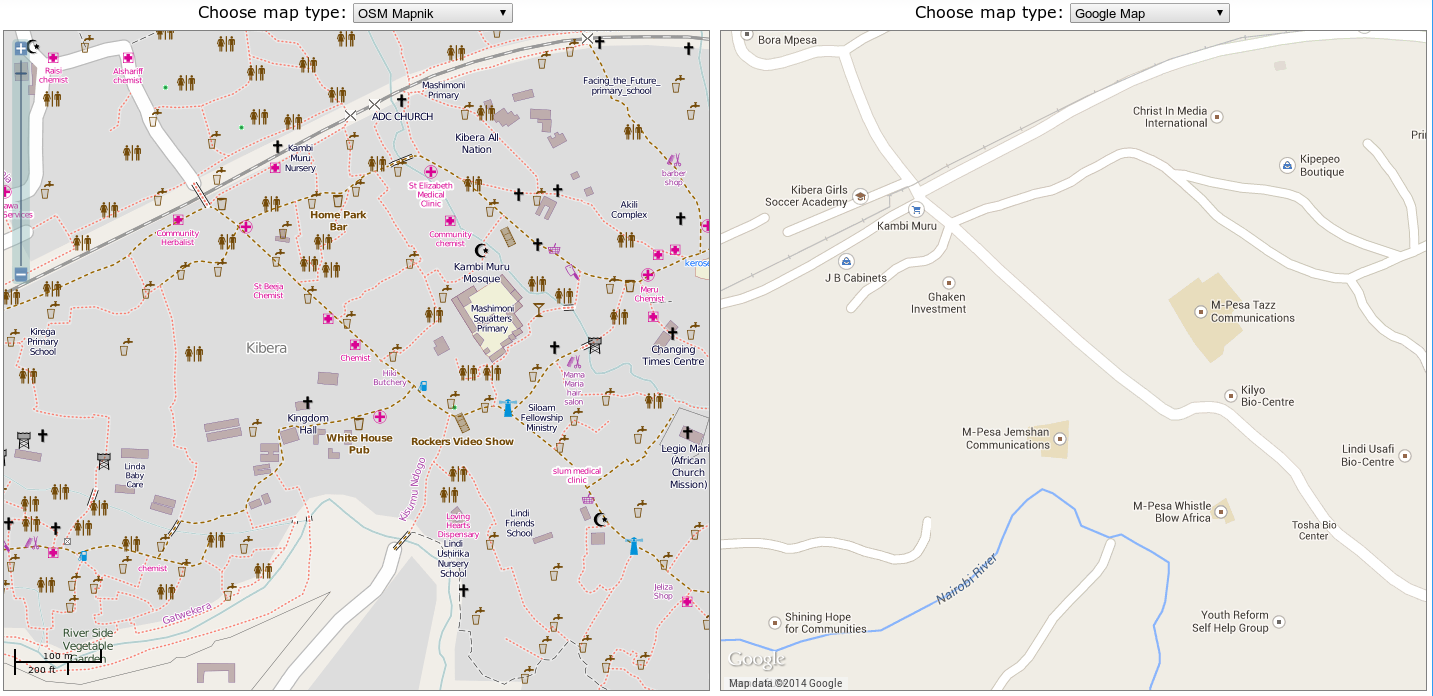
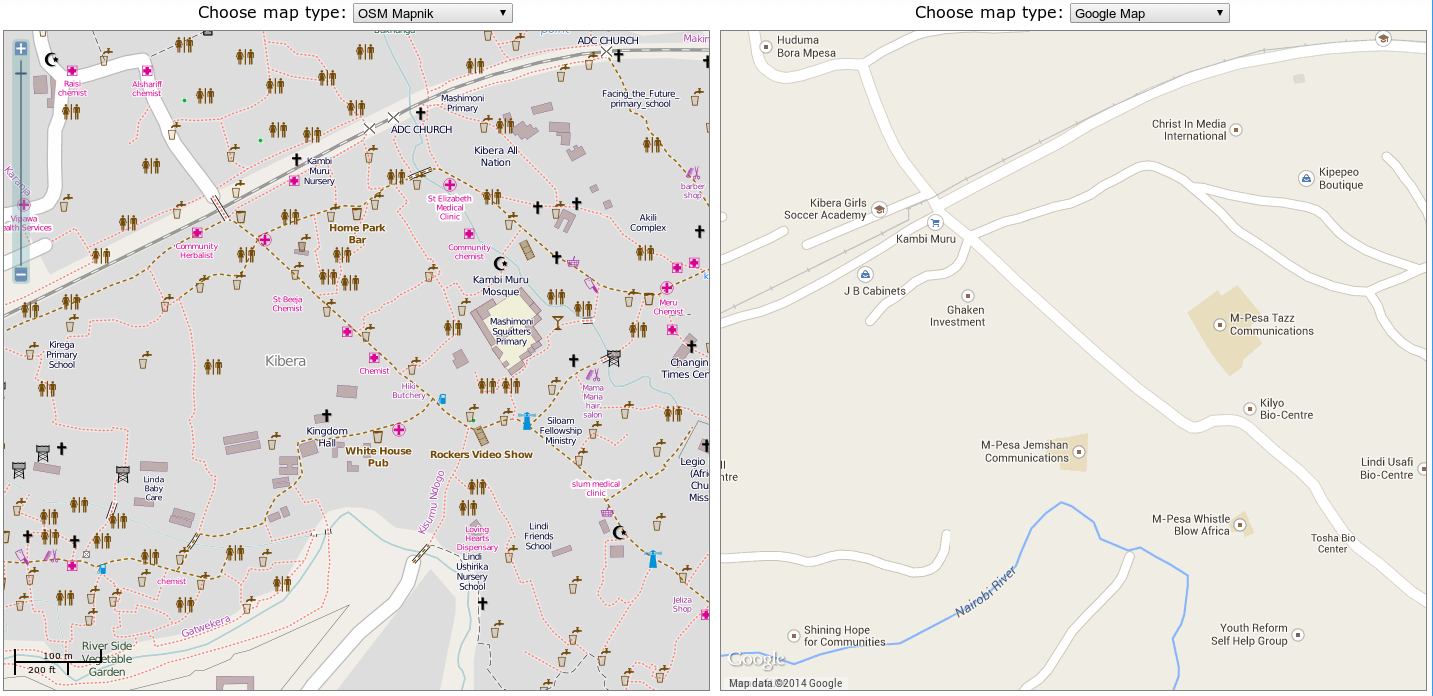
segunda parte acabada

diff --git a/index.html b/index.html
@@ -64,12 +64,19 @@
         <!-- Introduccíón a OSM -->
         <section>
           <section>
+            <h2>Primera parte</h2>
+            <h3>Qué es OpenStreetMap</h3>
+
+            <img src="imgs/osm-logo.png">
+          </section>
+          <section>
             <h2>Qué es OpenStreetMap</h2>
             <ul>
               <li class="fragment">Comunidad de entusiastas del <em>software</em> y los datos libres</li>
               <li class="fragment">Proyecto para crear una base de datos geográfica mundial</li>
               <li class="fragment">¿Un mapa en la red?</li>
               <li class="fragment"> <strong>¡No!</strong> ¡Son muchos!</li>
+              <li class="fragment"> Pero no solo mapas, también un enorme ecosistema de productos y servicios</li>
             </ul>
           </section>
 
@@ -85,7 +92,12 @@
 
           <section>
             <img src="imgs/osm-edit.png" alt="Editar">
-            <p><a href="https://www.openstreetmap.org/api/0.6/changeset/21196864/download">Editar</a></p>
+            <p>Editar</p>
+          </section>
+
+          <section>
+            <img src="imgs/osm-improve.png" alt="Mejorar">
+            <p><a href="https://www.openstreetmap.org/api/0.6/changeset/21196864/download">¡Mejorar!</a></p>
           </section>
 
           <section>
@@ -100,6 +112,20 @@
               <li>API: restricciones de uso, publicidad, ...</li>
               <li>MapMaker: <em>«vuestro trabajo es
               <strong>nuestro</strong>»</em></li>
+            </ul>
+          </section>
+          <section class="bookmark">
+            <h2>Términos de uso de Google Maps</h2>
+            <ul>
+              <li>Prohibido el uso comercial</li>
+              <li>Sólo para uso personal</li>
+              <li>No redistribuible</li>
+              <li>Sólo a través de nuestra API</li>
+              <li>Propiedad de Tele Atlas/NAVTEQ</li>
+              <li>Prohibido descargar,  modificar, navegar</li>
+              <li>...</li>
+              <li>¡Prohibido mejorar!</li>
+              <li>¡Prohibido ser creativo!</li>
             </ul>
           </section>
 
@@ -134,7 +160,7 @@
               <li><strong>2009</strong> API 0.6. 200.000 usuarios.</li>
 
               <li><strong>2010</strong> SotM en Girona. Bing Maps (Microsoft) permite
-              uso imágenes. Ordnance Survey libera sus datos.</li>
+              uso imágenes.</li>
 
               <li><strong>2011</strong> + 500.000 usuarios, + 1.000.000.000 nodos</li>
 
@@ -150,12 +176,14 @@
             <h2>Números</h2>
             <ul>
               <li>A 19 de marzo de 2014</li>
-              <li class="fragment">1.554.973 usuarios</li>
-              <li class="fragment">3.850.724.816 puntos GPS</li>
-              <li class="fragment">2.249.508.428 nodos</li>
-              <li class="fragment">222.362.704 líneas</li>
-              <li class="fragment">2.440.593 relaciones</li>
+              <li>1.554.973 usuarios</li>
+              <li>3.850.724.816 puntos GPS</li>
+              <li>2.249.508.428 nodos</li>
+              <li>222.362.704 líneas</li>
+              <li>2.440.593 relaciones</li>
+              <li><a href="http://www.openstreetmap.org/stats/data_stats.html">Fuente</a></li>
             </ul>
+
           </section>
 
           <section>
@@ -172,18 +200,164 @@
           </section>
           <section>
             <img src="imgs/compare-sarajevo.png" alt="Sarajevo">
-            <p><a href="http://tools.geofabrik.de/mc/?lon=18.36967&lat=43.84792&zoom=16&num=2&mt0=mapnik&mt1=google-map"></a>Sarajevo</p>
+            <p><a href="http://tools.geofabrik.de/mc/?lon=18.36967&lat=43.84792&zoom=16&num=2&mt0=mapnik&mt1=google-map">Sarajevo</a></p>
           </section>
           <section>
-            <img src="imgs/compare-.png" alt="">
+            <img src="imgs/compare-kibera.png" alt="Kibera">
             <p><a href="http://tools.geofabrik.de/mc/?lon=36.78924&lat=-1.31294&zoom=17&num=2&mt0=mapnik&mt1=google-map">Kibera</a> ·
               <a href="http://www.mapkibera.org/">mapkibera.org</a></p>
           </section>
+          <section>
+            <img src="imgs/compare-haiti.png" alt="Haiti">
+            <p><a href="http://tools.geofabrik.de/mc/?lon=-72.33904&lat=18.54124&zoom=16&num=2&mt0=mapnik&mt1=google-map">Puerto Príncipe</a> ·
+              <a href="http://wiki.openstreetmap.org/wiki/WikiProject_Haiti">wiki</a></p>
+          </section>
 
+          <section class="bookmark">
+            <h2>HOT</h2>
 
+            <p><a href="http://hot.openstreetmap.org/">Humanitarian OpenStreetMap Team</a></p>
+
+            <ul class="discs larger">
+              <li>Se organiza a partir del <strong>terremoto</strong> de Haití</li>
+
+              <li>Se realizan trabajos de formación en zonas
+              necesitadas</li>
+
+              <li>La mayor parte del trabajo es remoto</li>
+
+              <li>Actualmente trabajando en Haití,
+              Indonesia, Somalia, Costa de Marfil... </li>
+            </ul>
+
+            <p style="text-align:center;margin-top:20px;"><a href=
+            "http://hot.openstreetmap.org/" target="_blank"><img src="imgs/hot.jpg"
+            height="200" alt="HOT" /></a></p>
+          </section>
+
+          <section>
+            <img src="imgs/compare-tacloban.png" alt="Filipinas">
+            <p><a href="http://tools.geofabrik.de/mc/?lon=125.00151&lat=11.24581&zoom=17&num=2&mt0=mapnik&mt1=google-map">Tacloban</a> ·
+              <a href="http://wiki.openstreetmap.org/wiki/Typhoon_Haiyan">wiki</a> · <a href="http://resultmaps.neis-one.org/osm-typhoon-haiyan-2013/#8/11.682/122.953">mapa de cambios</a>
+              <br/> ¡4.8M de cambios en la base de datos en 2/3 semanas!</p>
+          </section>
 
         </section>
         <!-- fin de la intro -->
+
+        <!-- Cómo contribuir a OSM -->
+        <section>
+          <section>
+            <h2>Segunda parte</h2>
+            <h3>Cómo contribuir a OSM</h3>
+          </section>
+          <section>
+            <h2>Flujo de trabajo</h2>
+            <ol>
+              <li class="fragment">Recoger datos</li>
+              <li class="fragment">Subirlos a OSM</li>
+            </ol>
+          </section>
+
+          <section class="bookmark">
+            <h2>Tomando datos con GPS</h2>
+            <img class="figure" src="imgs/map-hanoi.jpg" width="900" height="453"
+            alt="Mapping party en Hanoi">
+          </section>
+
+          <section class="bookmark">
+            <h2>Field Papers</h2>
+            <a href="http://www.flickr.com/photos/kachkaev/5710460686/" title=
+            "2011-05-10 (0010) by Alexander Kachkaev, on Flickr"><img src=
+            "http://farm4.staticflickr.com/3085/5710460686_98fd5a5d9a_b.jpg" width=
+            "900" alt="2011-05-10 (0010)"></a>
+          </section>
+
+          <section class="bookmark">
+            <h2>Mapping party</h2>
+            <a href="http://www.flickr.com/photos/xurxosanz/7243397808/"
+            title="Parc Agrari mappers by XuRxO, on Flickr">
+            <img src="imgs/parc-agrari-1.jpg"
+             width="640" alt="Parc Agrari mappers"></a>
+
+             <p>Preparando los equipos</p>
+          </section>
+
+          <section>
+            <h2>Mapping party</h2>
+            <a class="noframe" href="https://plus.google.com/photos/100055577411751485036/albums/5745100471214038145/5745101251225765538">
+            <img class="figure" src="imgs/parc-agrari-2.jpg"
+             alt="Treballant al parc agrari"></a>
+
+             <p>De vuelta a editar</p>
+          </section>
+
+          <section class="bookmark">
+            <h2>Editores de datos OSM</h2>
+
+            <ul>
+              <li>JOSM
+
+                <ul>
+                  <li>escritorio, Java</li>
+                  <li>mucha funcionalidad, plugins, etc</li>
+                  <li>para editores avanzados</li>
+                </ul>
+              </li>
+
+              <li>iD
+
+                <ul>
+                  <li>JavaScript (d3js)</li>
+                  <li>directamente en la web de OSM</li>
+                  <li>para editores casuales</li>
+                </ul>
+              </li>
+
+              <li>... hay <a href="http://wiki.openstreetmap.org/wiki/Editing"
+              target="_blank" title="Editores">muchos más</a> (incluso para teléfonos y tabletas)</li>
+            </ul>
+          </section>
+
+          <section>
+            <img src="imgs/josm.png" alt="JOSM">
+            <p>Escuela de Bellas Artes en JOSM</p>
+          </section>
+        </section>
+
+        <!-- FIN Cómo contribuir a OSM -->
+
+        <!-- OSM para desarrolladores -->
+        <section>
+          <section>
+            <h2>Tercera parte</h2>
+            <h3>OSM para desarrolladores</h3>
+          </section>
+          <section>
+            <ul>
+              <li>El modelo de datos de OSM</li>
+              <li>API XML de OSM</li>
+              <li>Cómo añadir teselas de OSM a nuestros proyectos
+              <ul>
+                <li>OpenLayers</li>
+                <li>Leaflet</li>
+              </ul>
+              </li>
+              <li>Servicios derivados
+                <ul>
+                  <li>Nominatim</li>
+                  <li>Overpass API/XAPI</li>
+                  <li>Renderizadores: mapnik</li>
+                  <li>Routing con OSRM</li>
+                </ul>
+              </li>
+            </ul>
+          </section>
+          <section>
+            <h2></h2>
+          </section>
+        </section>
+        <!-- FIN OSM para desarrolladores-->
 
 
         <!-- Cierre -->
@@ -199,10 +373,22 @@
           </section>
           <section>
             <h2>Licencia</h2>
-            <a href=
-      "http://creativecommons.org/licenses/by-sa/3.0/deed.es" title=
-      "cc-by-sa"><img src="imgs/cc-by-sa.png" height="100" alt=
-      "CC-BY-SA" /></a>
+
+            <a rel="license" href="http://creativecommons.org/licenses/by-sa/4.0/">
+              <img alt="Creative Commons License" style="border-width:0"
+                src="imgs/cc-by-sa.png" />
+            </a><br />
+            <span xmlns:dct="http://purl.org/dc/terms/" href="http://purl.org/dc/dcmitype/InteractiveResource"
+              property="dct:title" rel="dct:type">
+                OSM no es un mapa, es una base de datos</span> by
+                <a xmlns:cc="http://creativecommons.org/ns#"
+                  href="http://jsanz.github.io/slides-elhackaton-osm/#"
+                  property="cc:attributionName"
+                  rel="cc:attributionURL">Jorge Sanz</a>
+                is licensed under a
+                  <a rel="license" href="http://creativecommons.org/licenses/by-sa/4.0/">
+                    Creative Commons Attribution-ShareAlike 4.0 International License</a>.
+
           </section>
         </section>
 
